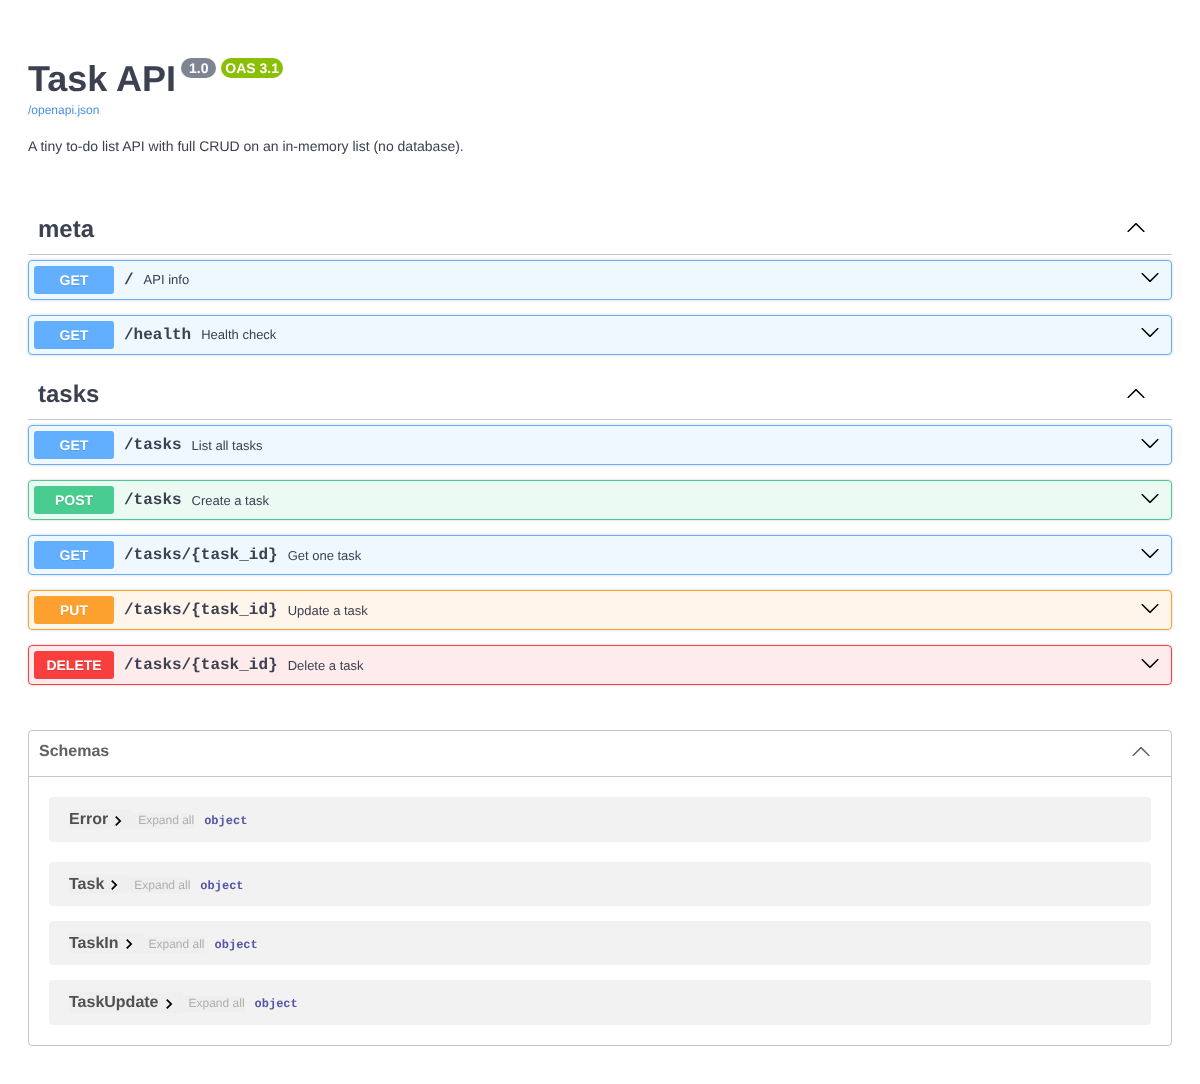
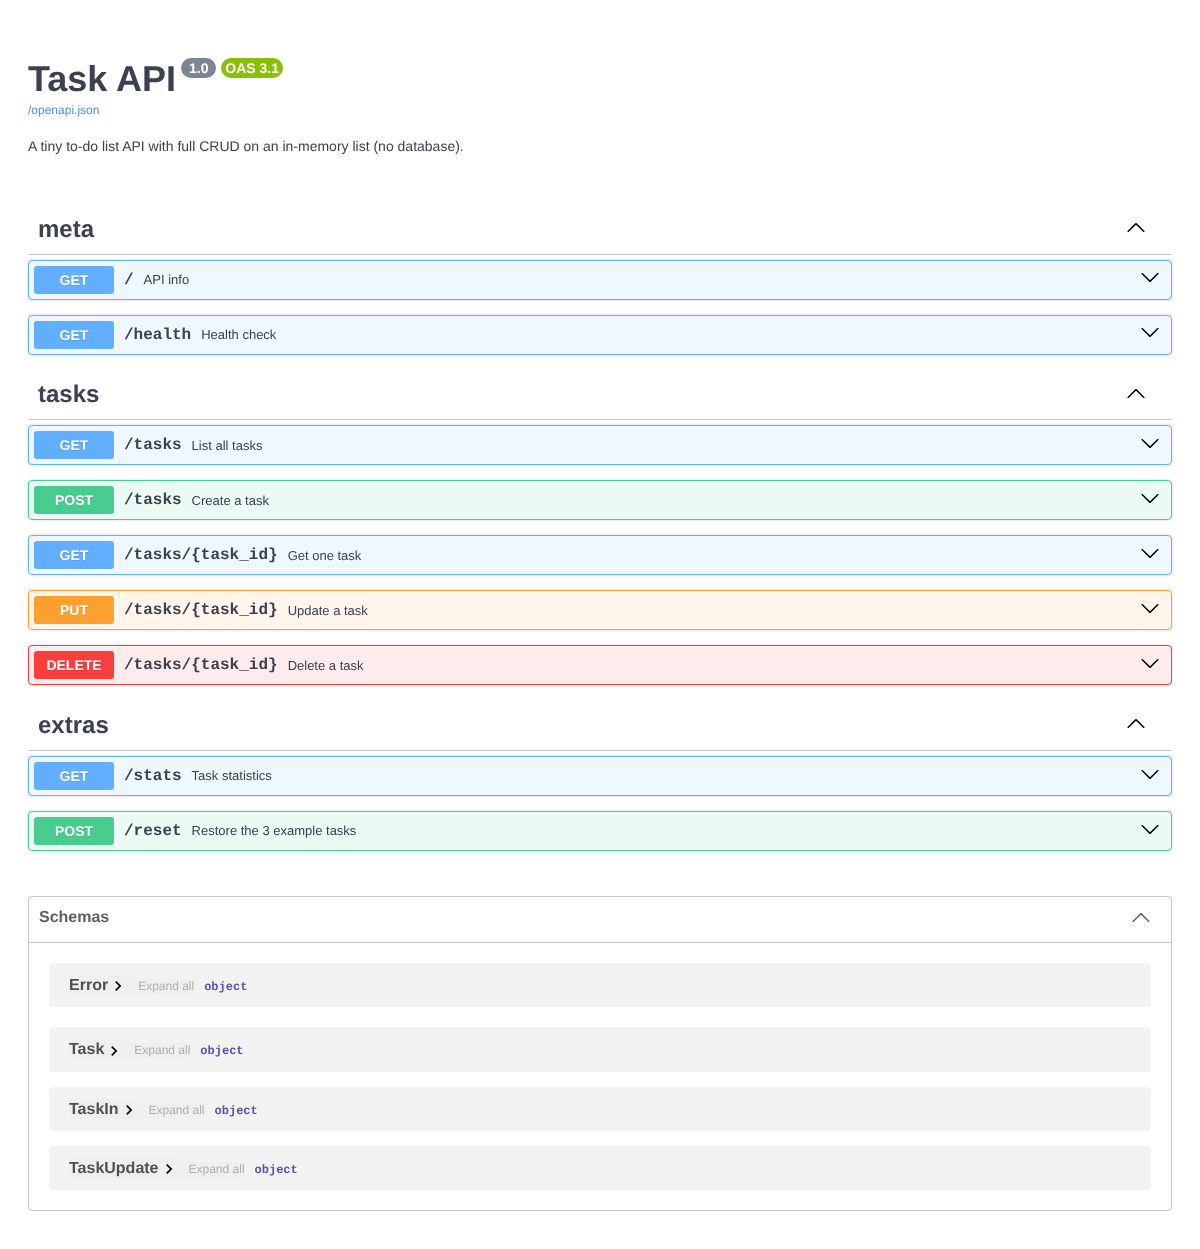
Stage 6: publish and docs

diff --git a/README.md b/README.md
@@ -1,0 +1,85 @@
+# Task API
+
+A small to-do list API built with **Python + FastAPI** for FlyRank Backend Track, Week 2, Assignment A1.
+It supports full CRUD (Create, Read, Update, Delete) on tasks. Data lives **in memory only** (no database, no files), so it resets whenever the server restarts.
+
+## Run it
+
+Needs Python 3.10+.
+
+```bash
+pip install -r requirements.txt
+uvicorn main:app --reload
+```
+
+The server starts at <http://localhost:8000>. Interactive docs (Swagger UI) are at <http://localhost:8000/docs>.
+
+## Endpoints
+
+| Method | Path | What it does | Success | Errors |
+|--------|------|--------------|---------|--------|
+| GET | `/` | API info | 200 | |
+| GET | `/health` | Health check | 200 | |
+| GET | `/tasks` | List all tasks (optional `?done=true` and `?search=milk`) | 200 | 400 bad filter |
+| GET | `/tasks/{id}` | Get one task | 200 | 404 unknown id |
+| POST | `/tasks` | Create a task from `{"title": "..."}` | 201 | 400 missing/empty title |
+| PUT | `/tasks/{id}` | Update `title` and/or `done` | 200 | 400 empty/invalid body, 404 unknown id |
+| DELETE | `/tasks/{id}` | Delete a task (empty body) | 204 | 404 unknown id |
+| GET | `/stats` | `{"total", "done", "open"}` counts (extra) | 200 | |
+| POST | `/reset` | Restore the 3 example tasks (extra) | 200 | |
+
+Every error returns JSON like `{"error": "Task 99 not found"}`. Bad request bodies return **400** (FastAPI's default 422 is replaced with a custom handler to match the assignment).
+
+A task looks like `{"id": 1, "title": "Learn HTTP", "done": true}`.
+
+## Example: `curl -i`
+
+```console
+$ curl -i -X POST http://localhost:8000/tasks -H "Content-Type: application/json" -d '{"title":"Buy milk"}'
+HTTP/1.1 201 Created
+date: Tue, 20 Oct 2026 18:22:31 GMT
+server: uvicorn
+content-length: 40
+content-type: application/json
+
+{"id":4,"title":"Buy milk","done":false}
+```
+
+More checks you can run:
+
+```bash
+curl -i http://localhost:8000/tasks/1                 # 200 + one task
+curl -i http://localhost:8000/tasks/99                # 404 + {"error": "Task 99 not found"}
+curl -i -X POST http://localhost:8000/tasks -H "Content-Type: application/json" -d '{}'   # 400
+curl -i -X PUT http://localhost:8000/tasks/2 -H "Content-Type: application/json" -d '{"done":true}'  # 200
+curl -i -X DELETE http://localhost:8000/tasks/2       # 204, empty body
+```
+
+## Swagger UI
+
+All endpoints are listed at `/docs`, and "Try it out" works for the whole CRUD cycle.
+
+![Swagger UI overview](docs/swagger.png)
+
+Creating a task through "Try it out" (returns 201):
+
+![POST /tasks in Swagger UI](docs/swagger-post.png)
+
+## Extras
+
+- **Filtering:** `GET /tasks?done=true` returns only finished tasks.
+- **Search:** `GET /tasks?search=milk` returns tasks whose title contains the word (case-insensitive).
+- **Stats:** `GET /stats` returns `{"total": 4, "done": 1, "open": 3}`.
+- **Reset:** `POST /reset` restores the 3 example tasks.
+
+### The mortality experiment
+
+I created a task ("Task made before restart"), confirmed it appeared in `GET /tasks`, restarted the server, and called `GET /tasks` again: the task was gone and only the 3 original example tasks remained. The tasks are stored in a Python list that exists only in the running process's memory, so when the process stops the memory is freed and the list is rebuilt from the code on the next start. That is exactly why a database is needed.
+
+## Project layout
+
+```
+main.py            the whole API (~175 lines, including docs and extras)
+requirements.txt   dependencies
+docs/              Swagger screenshots
+```
